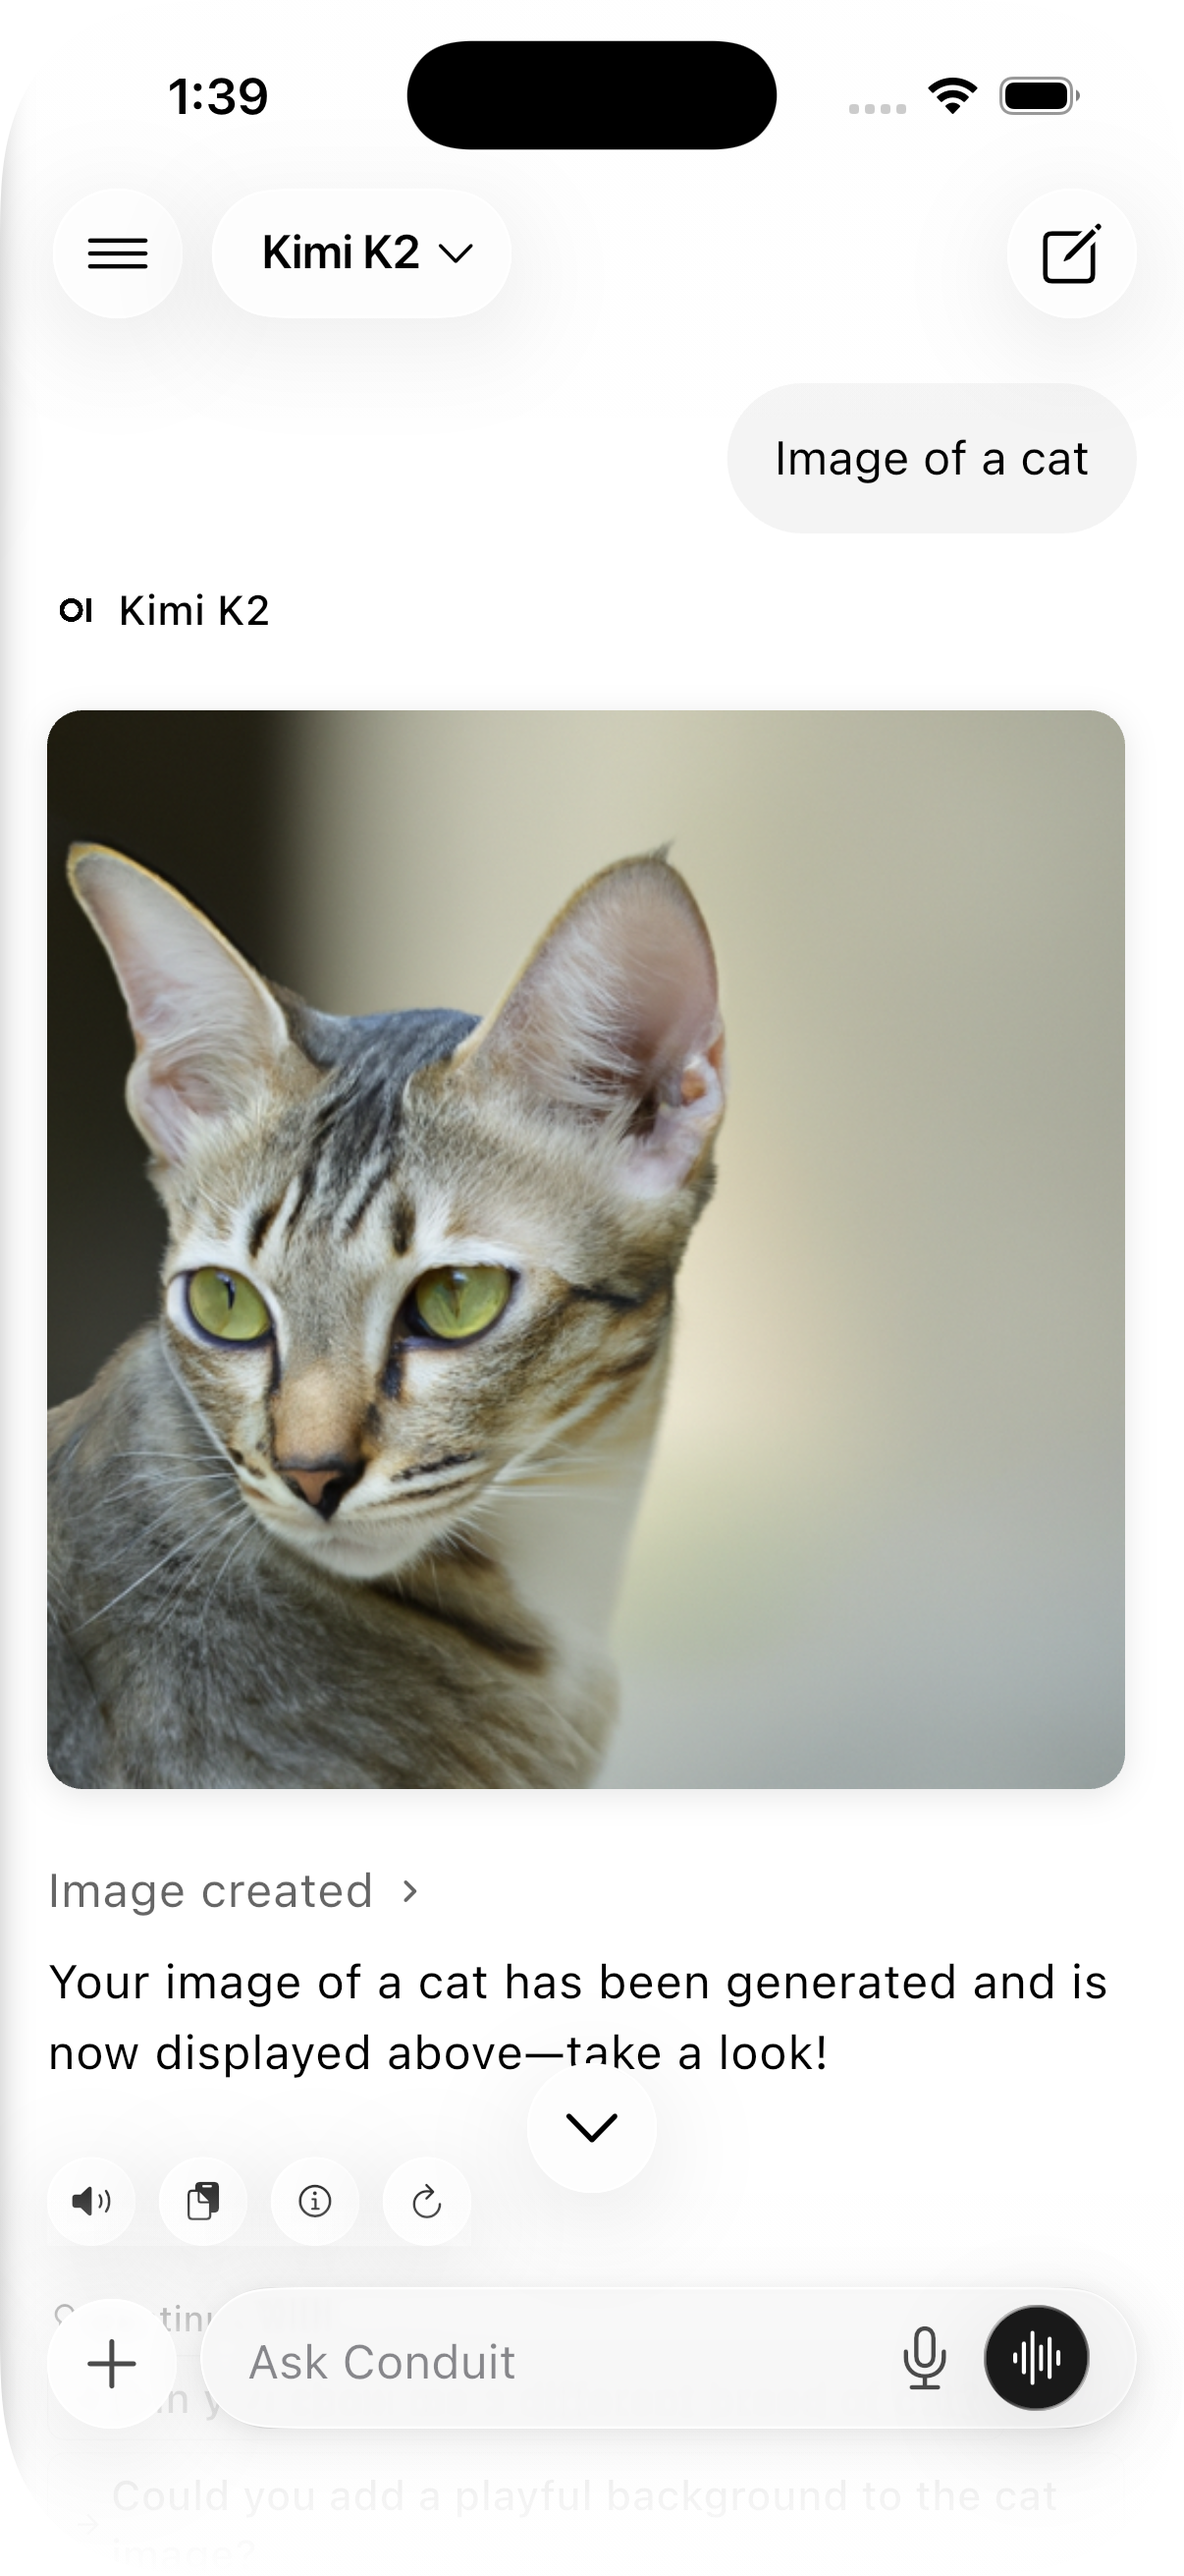
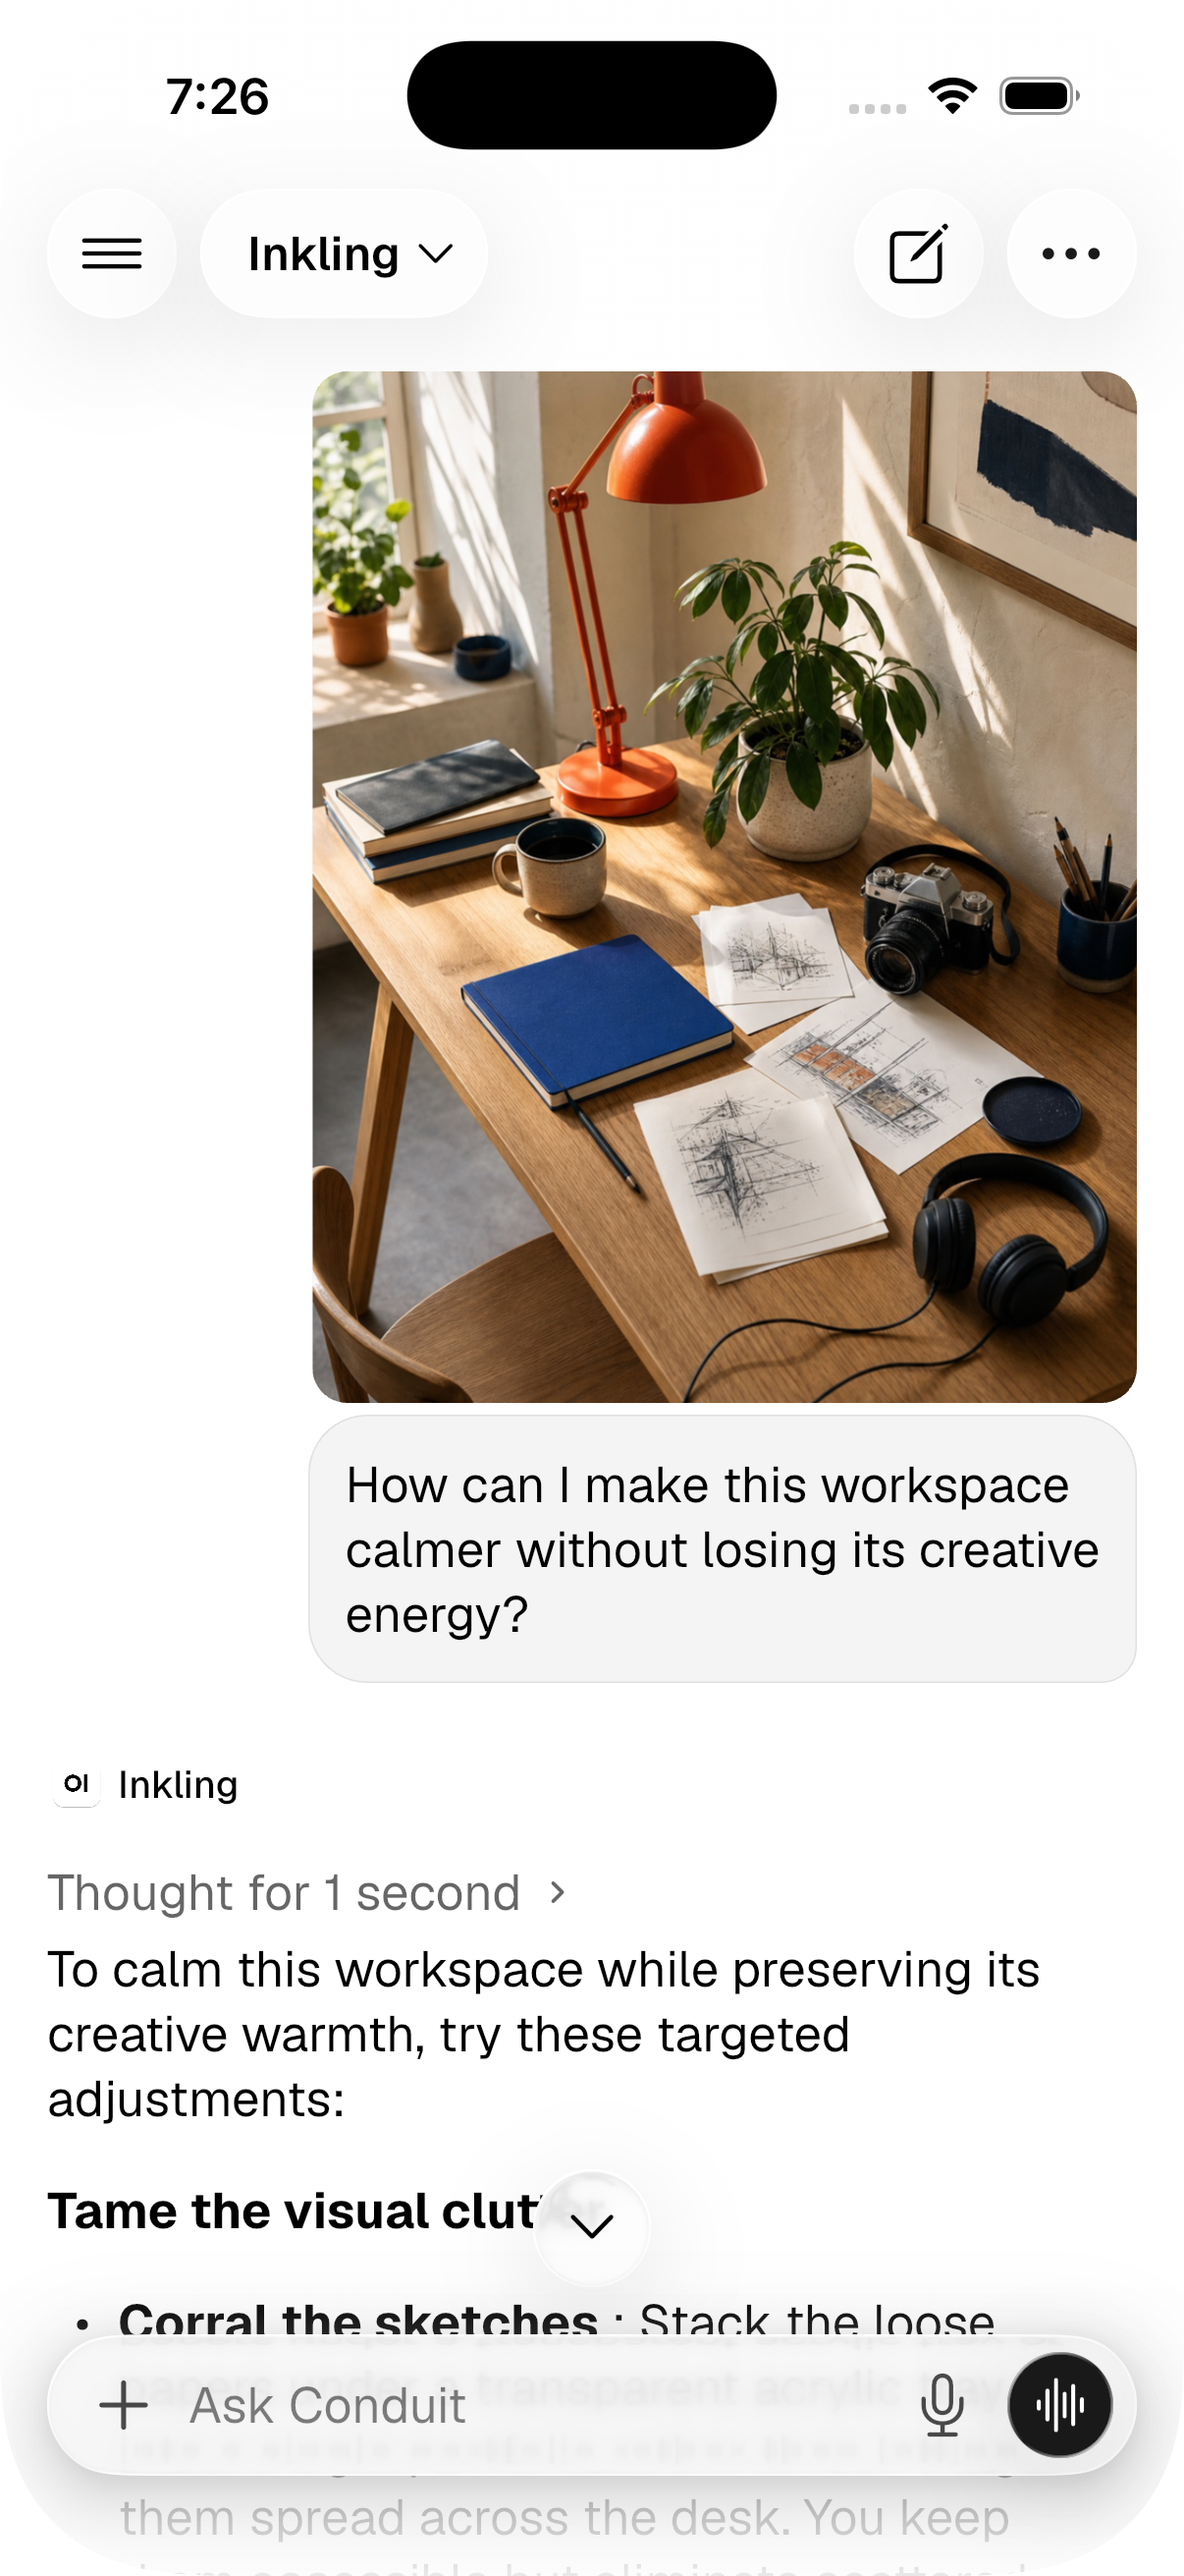
Update .gitignore and README with new screenshot references
- Replace 'Archive/' entry in .gitignore with 'app-store-screenshots/' to exclude app store screenshot files.
- Update README to reflect changes in the first screenshot description for clarity and accuracy.
- Update binary screenshot files for improved visuals.

diff --git a/README.md b/README.md
@@ -129,7 +129,7 @@ exposes the capabilities your server actually reports.
 
 | Chat | Sidebar | Themes | Settings |
 | --- | --- | --- | --- |
-| <img src="docs/screenshots/1.png" alt="A conversation with a generated image and streaming response" width="200" /> | <img src="docs/screenshots/2.png" alt="Sidebar with pinned chats, folders, and recent conversations" width="200" /> | <img src="docs/screenshots/3.png" alt="Accent palette picker with Conduit, Claude, T3 Chat, Catppuccin, and Tangerine themes" width="200" /> | <img src="docs/screenshots/4.png" alt="Customization settings for display, language, and speech to text" width="200" /> |
+| <img src="docs/screenshots/1.png" alt="Multimodal chat with an image attachment and streaming response" width="200" /> | <img src="docs/screenshots/2.png" alt="Sidebar with pinned chats, folders, and recent conversations" width="200" /> | <img src="docs/screenshots/3.png" alt="Accent palette picker with Conduit, Claude, T3 Chat, Catppuccin, and Tangerine themes" width="200" /> | <img src="docs/screenshots/4.png" alt="Settings with appearance, chats, voice, and connection options" width="200" /> |
 
 ## What you get
 
